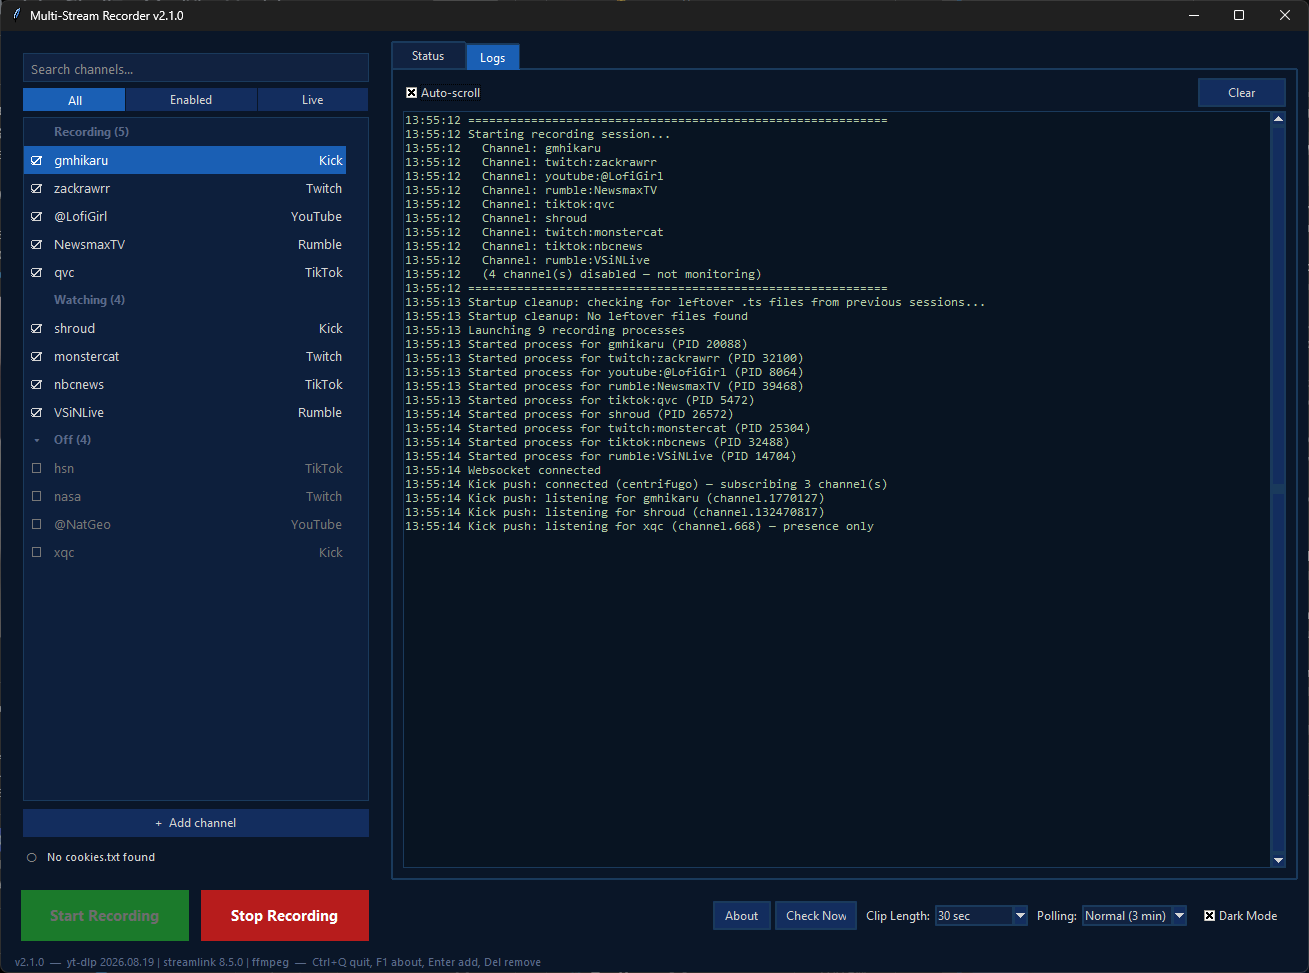
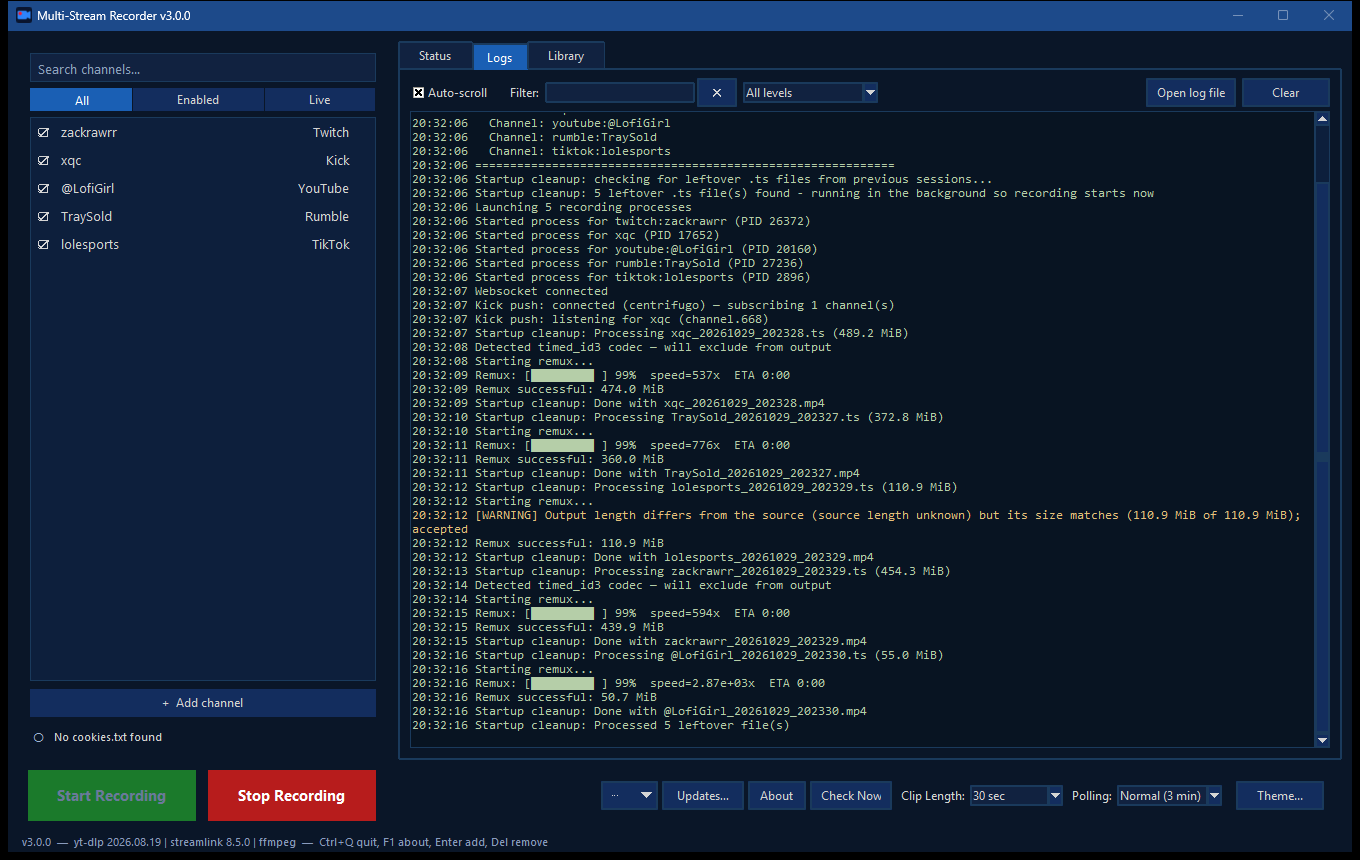
README: new 3.0 screenshots (main hero + collapsible More screenshots: Clip Editor, Library, Logs, Themes); drop dark-mode.png

Changed region(s): [[0.0, 0.0, 1.0, 1.0], [0.6723, 0.6349, 0.7028, 0.6651]]

diff --git a/README.md b/README.md
@@ -6,7 +6,27 @@ Supported: **Kick**, **Twitch**, **YouTube**, **Rumble**, **TikTok**, **Fishtank
 
 This README describes **v3.0.0**. Full history: [CHANGELOG.md](CHANGELOG.md).
 
-![Status tab](screenshots/dark-mode.png)
+![Status tab: five channels recording at once](screenshots/main.png)
+
+<details><summary>More screenshots</summary>
+
+**Clip Editor (DVR)**: In/Out marks on a stream that is still recording.
+
+![Clip Editor](screenshots/clip-editor.png)
+
+**Library**: space and hours per site, channel and month.
+
+![Library tab](screenshots/library.png)
+
+**Logs**: live log with filter and level drop-down.
+
+![Logs tab](screenshots/logs.png)
+
+**Themes**: Light, Dracula, Catppuccin Mocha OLED and Gruvbox Material (16 built in).
+
+![Themes](screenshots/themes.png)
+
+</details>
 
 ## What's new in 3.0
 
@@ -60,8 +80,6 @@ This README describes **v3.0.0**. Full history: [CHANGELOG.md](CHANGELOG.md).
 
 **Logs tab**
 - Follows new lines only while you are at the bottom (a **New lines** button appears when you scroll back), filter box, level drop-down, highlighting, coloured warnings and errors, Ctrl+F, **Open log file**.
-
-![Logs tab](screenshots/logs.png)
 
 **Look and housekeeping**
 - **Themes**: the **Theme...** button opens a list with a live preview: PowerShell Blue (default), Neutral Dark, Light, High Contrast, Midnight Purple, Paper, plus ten based on [Omarchy](https://omarchy.org/themes/) palettes (Arc Blueberry, Catppuccin Mocha OLED, Rose Pine, Gruvbox Material, Dracula, Flexoki Dark, Vesper, Tokyo Night OLED, Tokyo Day, Solarized Light; credits in [THIRD_PARTY_NOTICES.md](THIRD_PARTY_NOTICES.md)). Add your own as `themes/*.json` in the data folder.
